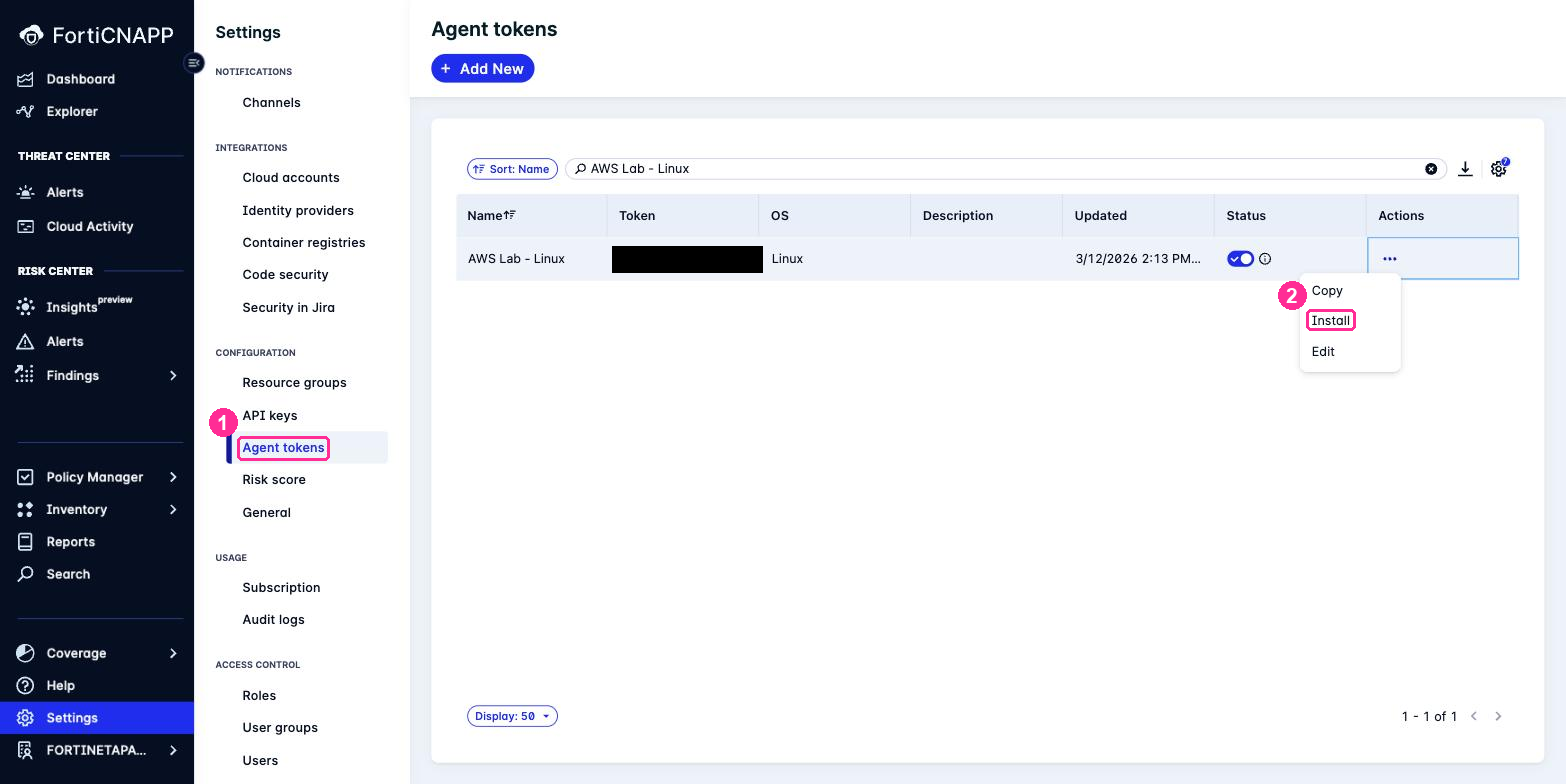
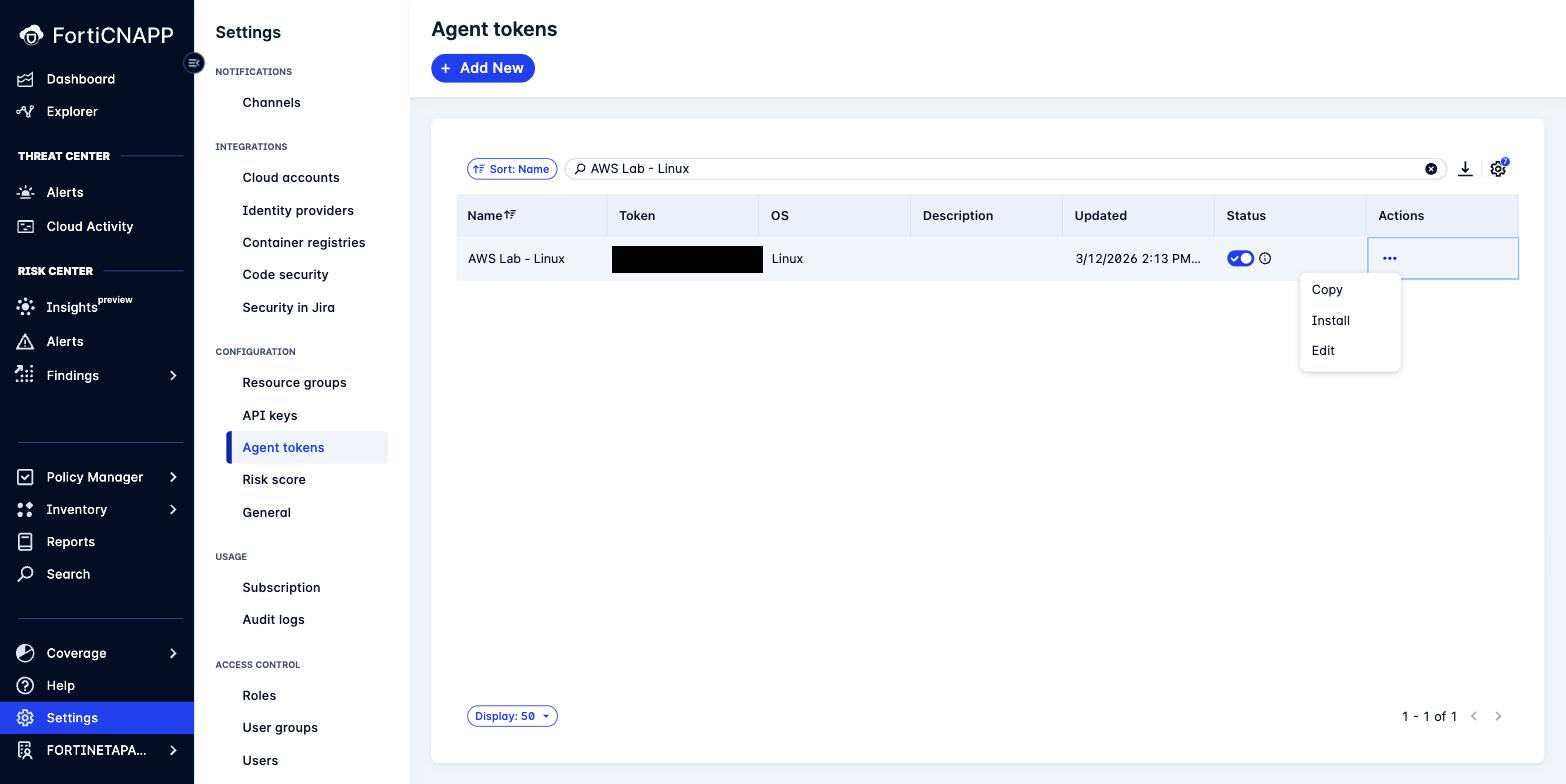
Lab 4: fix the token gap that would have stopped the room
Ran the lab end to end on a real instance. It does not work as written.

`sudo ./install.sh` stops and asks "Please enter access token:". The lab
sends students to Copy URL, which gives the install script URL, and never
tells them to fetch the token. It also claimed the URL carries the token,
which the run disproves.

The token comes from the same Actions menu, under Copy. The lab now says
you need two things from that menu, that the clipboard holds one at a
time, and what order to take them in. Also warns that the token echoes in
the clear, which matters on a shared screen.

Everything else verified: sudo and ping checkpoints pass, the install
succeeds once the token is supplied, and datacollector -status returns
exactly the JSON the lab documents.

The log step was wrong in a quieter way. It said "to watch it work" and
left students staring at output nobody had described. The log is the agent
talking about itself, not a feed of what it sees: transport URL, controller
registration, and a Payload line every 15 to 20 seconds. That is the line
worth watching, because it is their data leaving the host. Two entries that
look like failures and are not are now called out.

Claude-Session: https://claude.ai/code/session_012U8fXbmmMrtCVct3EfwV84

diff --git a/lab-04/README.md b/lab-04/README.md
@@ -86,11 +86,14 @@ it is running.
 3. Navigate to **Settings** > **Configuration** > **Agent tokens**
 4. Type `AWS Lab - Linux` in the search box. There are dozens of tokens on this tenant, so
    searching beats scrolling.
-5. Click the **Actions** ellipsis (three dots) on that row, then **Install**
+5. Click the **Actions** ellipsis (three dots) on that row.
 
-![Agent tokens filtered to AWS Lab - Linux, with the Actions menu open on Install](images/forticnapp-agent-token-actions.png)
+![Agent tokens filtered to AWS Lab - Linux, with the Actions menu open](images/forticnapp-agent-token-actions.png)
 
-6. **Lacework Script** is already expanded. Click **Copy URL**.
+You need **two** things from this menu, and the clipboard holds one at a time. Take them in
+this order, using each before you come back for the other.
+
+6. Click **Install**. **Lacework Script** is already expanded, so click **Copy URL**.
 
    Copy the URL, not the script. The install command in the next step fetches it.
 
@@ -134,12 +137,26 @@ chmod +x install.sh
 sudo ./install.sh
 ```
 
-The URL carries your agent token, so the script installs and registers the agent in one
-go. There is nothing to configure afterwards.
+The script checks connectivity, then stops and asks:
 
+```
+Please enter access token:
+```
+
+That is the second thing you need from the Actions menu, and it is **not** the URL you just
+used. Go back to FortiCNAPP, click the **Actions** ellipsis on the same token, and choose
+**Copy**. That puts the 56-character agent token on your clipboard. Paste it at the prompt
+and press Enter.
+
+> [!CAUTION]
+> The token echoes on screen in the clear. Take care if you are sharing your screen.
+
+The rest runs on its own: it downloads the agent package, installs it, and registers with
+FortiCNAPP using that token. It ends with `Lacework successfully installed`.
+
+> [!TIP]
 > **Pasting into the browser terminal.** Use **Ctrl+V** (**Cmd+V** on a Mac). If the paste
-> arrives empty, your clipboard did not survive the tab switch. Go back to Step 2 and click
-> **Copy URL** again.
+> arrives empty, your clipboard did not survive the tab switch. Go back and copy again.
 
 ### Step 5: Verify on the Host
 
@@ -157,16 +174,38 @@ It answers in JSON. The field that matters is `Status`:
 
 `ACTIVE` means it is running and talking to FortiCNAPP.
 
-To watch it work:
+**Checkpoint:** `Status` reads `ACTIVE`.
+
+### Look at what it is logging
 
 ```bash
-ls -la /var/log/lacework/
 sudo tail -f /var/log/lacework/datacollector.log
 ```
 
-`Ctrl+C` stops the tail.
+`Ctrl+C` stops the tail. The file is readable by `root` only, so the `sudo` matters.
 
-**Checkpoint:** `Status` reads `ACTIVE`.
+![The datacollector log, ninety seconds after install](images/aws-agent-log.png)
+
+Three lines are worth finding:
+
+| Line | Means |
+|---|---|
+| `Setting transport for server URL https://api.lacework.net:443/` | Where it sends data |
+| `Connected to controller, version 7.9.0.28681` | It registered successfully |
+| `Payload Total : [5612], Curr : [1755]` | Data leaving the host, every 15 to 20 seconds |
+
+Watch for a minute and the `Payload` line repeats. That is your agent reporting.
+
+> [!NOTE]
+> **This log is the agent talking about itself, not a feed of what it sees.** The processes,
+> connections and file changes go to FortiCNAPP, not to this file. What the log proves is
+> that the pipe is open.
+
+Two lines look alarming and are not:
+
+- `level=warning ... describe tags ... NoCredentialProviders` means the instance has no IAM
+  role, which it does not need
+- `level=error msg="Failed to stop child ... no such process"` is startup noise
 
 ### Step 6: Verify in FortiCNAPP
 
